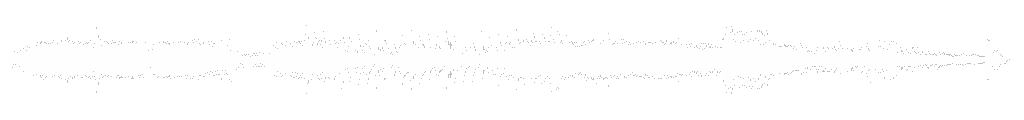
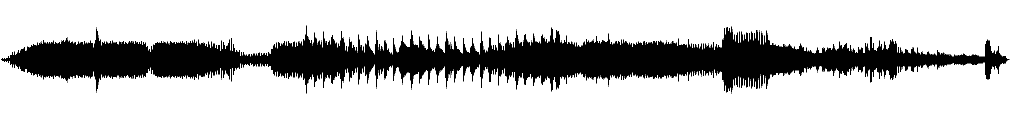
style

Changed region(s): [[0.0, 0.225, 1.0, 0.775]]

diff --git a/pages/projects.js b/pages/projects.js
@@ -2,21 +2,21 @@ import Layout from '../components/Layout.js'
 
 const Index = props => (
   <Layout path={props.url.pathname}>
-    <div className="pl2 white mw8 center flex flex-column">
+    <div className="pl2 mw8 black-80 center flex flex-column">
       <h2>
         web development
       </h2>
       <a
         target="_blank"
         href="https://dzwiekowamapa.pl"
-        className="link pl2 white underline-hover hover-yellow"
+        className="link pl2 black-80 underline-hover hover-red"
       >
         dzwiekowaMapa.pl
       </a>
       <a
         target="_blank"
         href="https://endziu.xyz"
-        className="link pl2 white underline-hover hover-yellow"
+        className="link pl2 black-80 underline-hover hover-red"
       >
         old home page
       </a>
@@ -27,21 +27,21 @@ const Index = props => (
       <a
         target="_blank"
         href="https://mombe.bandcamp.com/album/momb-2"
-        className="link pl2 white underline-hover hover-yellow"
+        className="link pl2 black-80 underline-hover hover-red"
       >
         mombe
       </a>
       <a
         target="_blank"
         href="https://thejazzstatues.bandcamp.com/album/the-jazz-statues-conquer"
-        className="link pl2 white underline-hover hover-yellow"
+        className="link pl2 black-80 underline-hover hover-red"
       >
         the jazz statues
       </a>
       <a
         target="_blank"
         href="https://www.youtube.com/watch?v=S_WFWuoMEEk"
-        className="link pl2 white underline-hover hover-yellow"
+        className="link pl2 black-80 underline-hover hover-red"
       >
         sewa kaffo
       </a>
@@ -53,21 +53,21 @@ const Index = props => (
       <a
         target="_blank"
         href="https://vimeo.com/85443642"
-        className="link pl2 white underline-hover hover-yellow"
+        className="link pl2 black-80 underline-hover hover-red"
       >
         micro situations
       </a>
       <a
         target="_blank"
         href="https://www.youtube.com/watch?v=DgTGhln-rlM"
-        className="link pl2 white underline-hover hover-yellow"
+        className="link pl2 black-80 underline-hover hover-red"
       >
         ucieczka ze szklanej kuli
       </a>
       <a
         target="_blank"
         href="https://vimeo.com/11533775"
-        className="link pl2 white underline-hover hover-yellow"
+        className="link pl2 black-80 underline-hover hover-red"
       >
         ty i rys społeczny
       </a>
@@ -78,35 +78,35 @@ const Index = props => (
       <a
         target="_blank"
         href="http://www.filmpolski.pl/fp/index.php?film=1217848"
-        className="link pl2 white underline-hover hover-yellow"
+        className="link pl2 black-80 underline-hover hover-red"
       >
         rzeźnia numer 1
       </a>
       <a
         target="_blank"
         href="http://www.filmpolski.pl/fp/index.php?film=1216732"
-        className="link pl2 white underline-hover hover-yellow"
+        className="link pl2 black-80 underline-hover hover-red"
       >
         krótka histeria czasu
       </a>
       <a
         target="_blank"
         href="http://www.filmpolski.pl/fp/index.php?film=1214406"
-        className="link pl2 white underline-hover hover-yellow"
+        className="link pl2 black-80 underline-hover hover-red"
       >
         krew z nosa
       </a>
       <a
         target="_blank"
         href="http://www.filmpolski.pl/fp/index.php?film=4224943"
-        className="link pl2 white underline-hover hover-yellow"
+        className="link pl2 black-80 underline-hover hover-red"
       >
         pokój
       </a>
       <a
         target="_blank"
         href="http://www.filmpolski.pl/fp/index.php?film=1221991"
-        className="link pl2 white underline-hover hover-yellow"
+        className="link pl2 black-80 underline-hover hover-red"
       >
         czarny
       </a>
@@ -117,14 +117,14 @@ const Index = props => (
       <a
         target="_blank"
         href="https://vimeo.com/185946610"
-        className="link pl2 white underline-hover hover-yellow"
+        className="link pl2 black-80 underline-hover hover-red"
       >
         ArC2
       </a>
       <a
         target="_blank"
         href="https://www.atmgrupa.pl/produkcja/gra-w-ciemno/"
-        className="link pl2 white underline-hover hover-yellow"
+        className="link pl2 black-80 underline-hover hover-red"
       >
         gra w ciemno
       </a>
@@ -135,14 +135,14 @@ const Index = props => (
       <a
         target="_blank"
         href="https://vimeo.com/123825272"
-        className="link pl2 white underline-hover hover-yellow"
+        className="link pl2 black-80 underline-hover hover-red"
       >
         live @ceta
       </a>
       <a
         target="_blank"
         href="https://www.youtube.com/watch?v=ZpCya0Pj47E"
-        className="link pl2 white underline-hover hover-yellow"
+        className="link pl2 black-80 underline-hover hover-red"
       >
         live @Puzzle
       </a>

diff --git a/components/Header.js b/components/Header.js
@@ -9,7 +9,7 @@ const Header = props => (
           className={
             props.path === '/'
               ? 'blue no-underline mr3'
-              : 'white hover-blue no-underline mr3'
+              : 'black-80 hover-blue no-underline mr3'
           }
         >
           endziu.xyz
@@ -19,8 +19,8 @@ const Header = props => (
         <a
           className={
             props.path === '/music'
-              ? 'green no-underline mr3'
-              : 'white hover-green no-underline mr3'
+              ? 'yellow no-underline mr3'
+              : 'black-80 hover-yellow no-underline mr3'
           }
         >
           music
@@ -30,8 +30,8 @@ const Header = props => (
         <a
           className={
             props.path === '/projects'
-              ? 'yellow no-underline mr3'
-              : 'white hover-yellow no-underline mr3'
+              ? 'red no-underline mr3'
+              : 'black-80 hover-red no-underline mr3'
           }
         >
           projects

diff --git a/pages/index.js b/pages/index.js
@@ -25,7 +25,7 @@ const GithubIcon = () => (
     viewBox="0 0 16 16"
     width="16"
     height="16"
-    fill="#ffffff"
+    fill="#000"
     fill-rule="evenodd"
     clip-rule="evenodd"
     stroke-linejoin="round"
@@ -44,7 +44,7 @@ const SoundcloudIcon = () => (
     viewBox="0 0 16 16"
     width="16"
     height="16"
-    fill="#ffffff"
+    fill="#000"
     fill-rule="evenodd"
     clip-rule="evenodd"
     stroke-linejoin="round"
@@ -63,7 +63,7 @@ const TwitterIcon = () => (
     viewBox="0 0 16 16"
     width="16"
     height="16"
-    fill="#ffffff"
+    fill="#000"
     fill-rule="evenodd"
     clip-rule="evenodd"
     stroke-linejoin="round"
@@ -78,7 +78,7 @@ const TwitterIcon = () => (
 
 const Index = props => (
   <Layout path={props.url.pathname}>
-    <div className="pl2 white mw8 center">
+    <div className="pl2 mw8 center">
       <header>
         <h2 className="f2 f1-m f-headline-l mv2 mv3-ns ml0 mh0">
           {`hello, I'm Andrzej`}

diff --git a/pages/music.js b/pages/music.js
@@ -38,6 +38,7 @@ export default class Music extends React.Component {
     this.playClick = this.playClick.bind(this)
     this.waveClick = this.waveClick.bind(this)
     this.updatePos = this.updatePos.bind(this)
+    this.onEnded = this.onEnded.bind(this)
   }
 
   componentWillMount() {
@@ -88,6 +89,13 @@ export default class Music extends React.Component {
     })
   }
 
+  onEnded() {
+    this.setState({
+      isPlaying: false,
+      percentPlayed: 0
+    })
+  }
+
   render() {
     const track = this.props.tracks[this.state.currentTrack]
     return (
@@ -98,6 +106,7 @@ export default class Music extends React.Component {
           preload={'metadata'}
           isPlaying={this.state.isPlaying}
           onTimeupdate={this.updatePos}
+          onEnded={this.onEnded}
         />
         <Display
           time={this.state.currentTime}

diff --git a/components/SoundList.js b/components/SoundList.js
@@ -14,8 +14,8 @@ const Title = ({ track, i, current }) => (
     <a
       className={
         parseInt(i) === parseInt(current)
-          ? 'green link underline-hover pointer f4'
-          : 'white link underline-hover hover-yellow pointer f4'
+          ? 'yellow link underline-hover pointer f4'
+          : 'black-80 link underline-hover hover-yellow pointer f4'
       }
     >
       {track.title}
@@ -45,7 +45,7 @@ const makeItem = (current, isPlaying, playClick) => (t, i, arr) => (
 )
 
 const SoundList = ({ tracks, playClick, current, isPlaying }) => (
-  <ul className="list ma2 pa0 white mw8 center">
+  <ul className="list ma2 pa0 mw8 center">
     {tracks.map(makeItem(current, isPlaying, playClick))}
   </ul>
 )

diff --git a/components/Display.js b/components/Display.js
@@ -9,7 +9,7 @@ const Display = ({ waveform_url, playPos = 0, waveClick, time = '0:00' }) => (
     }}
   >
     <div
-      className="h3 h5-l h4-m absolute bg-black-40"
+      className="h3 h5-l h4-m absolute bg-black-10"
       style={{
         width: `${playPos}%`,
         transition: 'all 0.1s ease-in-out'
@@ -26,8 +26,8 @@ const Display = ({ waveform_url, playPos = 0, waveClick, time = '0:00' }) => (
       <div
         className={
           playPos < 50
-            ? 'absolute bottom-0 pl2 white f6'
-            : 'absolute bottom-0 right-0 pr2 pb1 white f6'
+            ? 'absolute bottom-0 pl2 f6'
+            : 'absolute bottom-0 right-0 pr2 pb1 f6'
         }
       >
         {time}

diff --git a/components/Layout.js b/components/Layout.js
@@ -8,7 +8,7 @@ export default ({
   children,
[1 lines of base64/hex data omitted]
 }) => (
-  <div className="sans-serif ph2 ph3-m ph4-l">
+  <div className="sans-serif black-80 ph2 ph3-m ph4-l">
     <Head>
       <title>{title}</title>
       <meta charSet="utf-8" />
@@ -24,7 +24,7 @@ export default ({
 
     <Footer />
     <style jsx global>{`
-      html {background: #002;}
+      html {background: #f1f1f1;}
     `}</style>
   </div>
 )

diff --git a/make-waveforms.js b/make-waveforms.js
@@ -11,7 +11,7 @@ const drawWaves = sound => {
       '-i',
       sound.sound_url,
       '-filter_complex',
-      'showwavespic=s=1024x120:colors=white',
+      'showwavespic=s=1024x120:colors=black',
       '-frames:v',
       '1',
       sound.waveform_url
